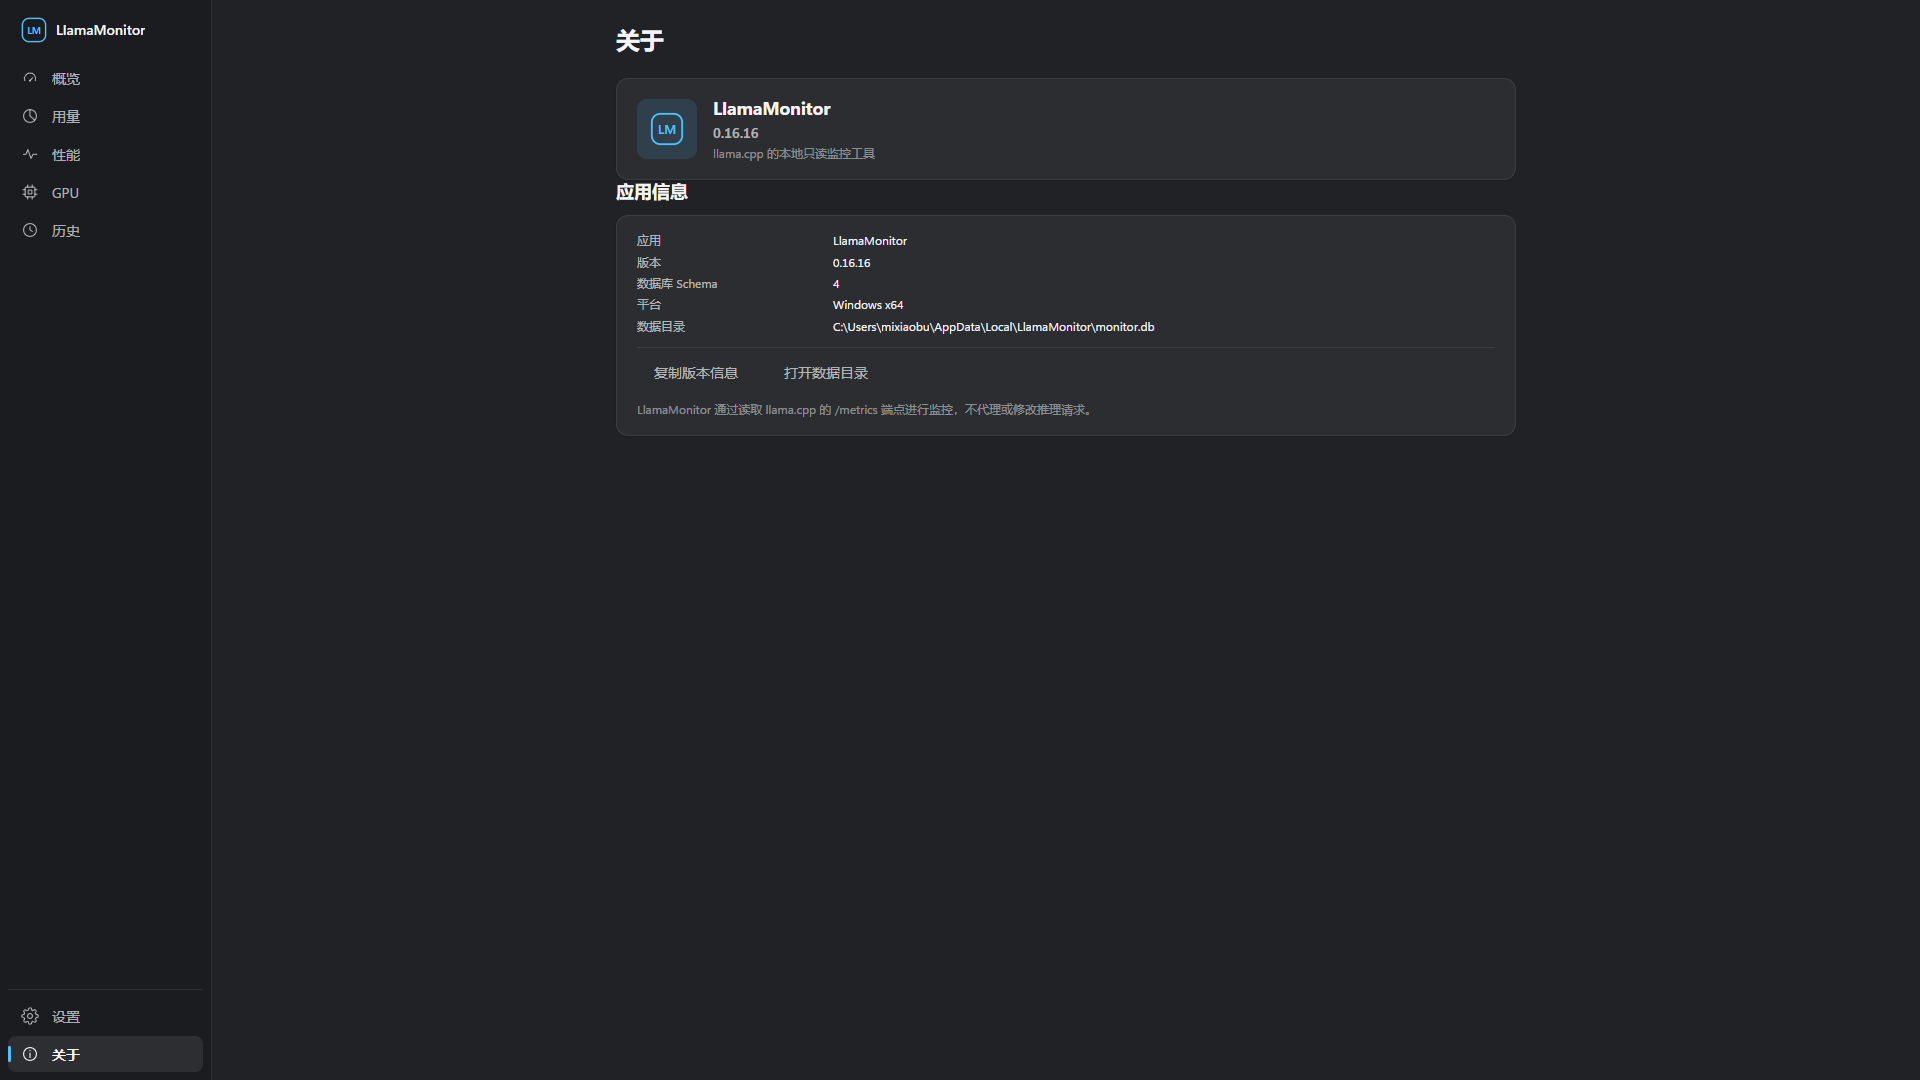
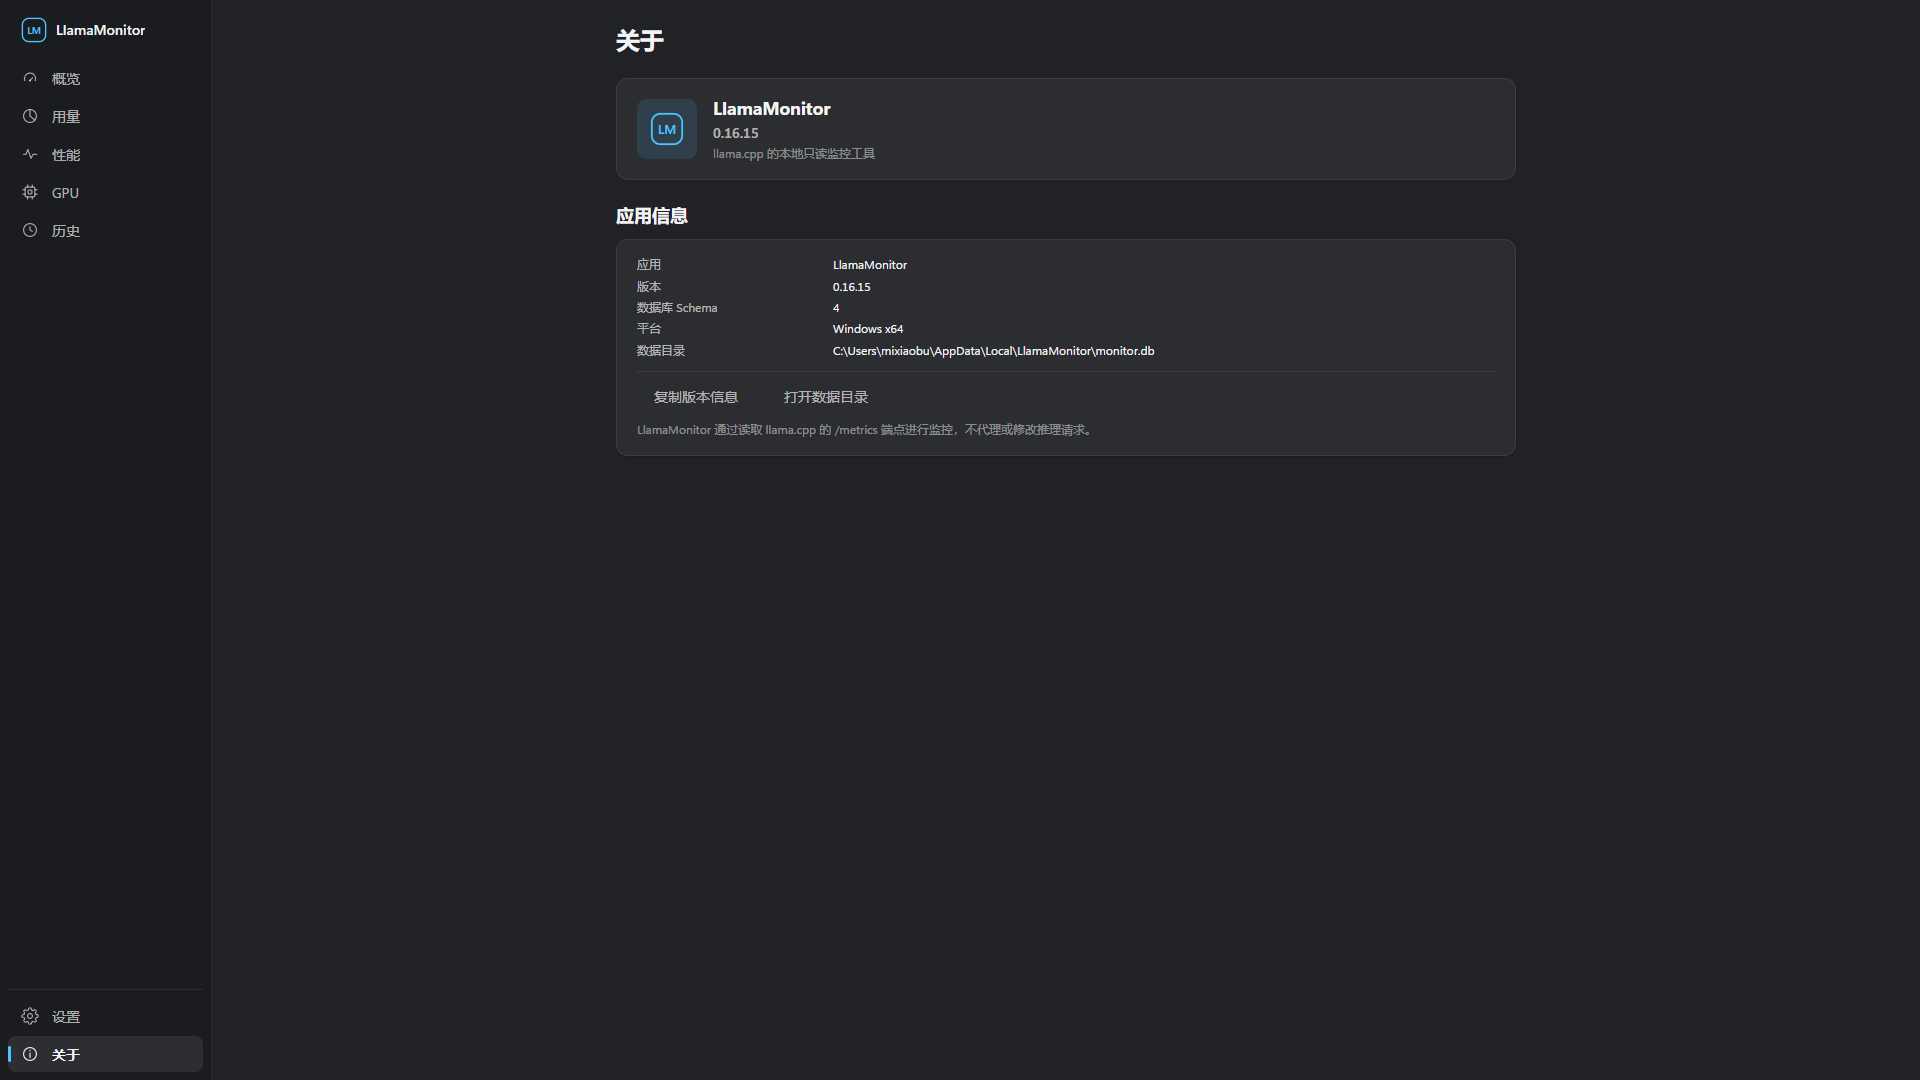
Phase 16D 追加: 间距与细节精细审计修复 (0.16.17)
CDP 实测发现 3 处 0px 间距 bug（.section:last-child{margin-bottom:0}
吞掉了紧随其前的游离元素与 section 的间距）：
- 概览：服务器状态卡 / token-loss 条 与 后续 section 贴死（0px）
- 性能：实时指标条 与 Token 吞吐 section 贴死（0px）
- 关于：品牌卡 与 应用信息 section 贴死（0px）

修复：.status-strip / .metric-strip / .about-hero-card 自身带
--section-gap(24px) 下边距。审计后 7 页所有相邻元素间距统一 24px。

细节打磨：
- 设置页控件宽度落地规范：URL 380 / 路径 400 / 数字 110 / select 180 /
  短文本 160，≤1200px 收敛（300/320），≤900px 全宽
- 设置页底部操作栏上间距对齐分区节奏（24px）
- 修复 About 说明文字与 card-footer 双分隔线（note 紧随 footer 时不再画线）
- 全部截图重拍（docs/screenshots-0.16.16/）

验证：validate OK · 418 测试绿 · Console 干净 · 宽度实测全部符合规范

Changed region(s): [[0.3125, 0.1528, 0.5938, 0.4278]]

diff --git a/static/css/pages.css b/static/css/pages.css
@@ -205,7 +205,7 @@
   justify-content: space-between;
   align-items: center;
   gap: var(--spacing-md);
-  margin-top: var(--spacing-lg);
+  margin-top: var(--section-gap); /* 16D：与分区节奏一致 */
   padding: var(--spacing-md) var(--spacing-lg);
   background: var(--bg-card);
   border: 1px solid var(--border-subtle);
@@ -249,13 +249,15 @@
    ============================================================ */
 
 /* 服务器状态条（Phase 16D §18.2：作为独立卡片，与 card 同构；
-   表面/边框/圆角来自 .card，此处只管 flex 布局） */
+   表面/边框/圆角来自 .card，此处只管 flex 布局；
+   16D 间距审计：自身带分区级下边距，避免与后续 section 贴死（0px 间隙 bug） */
 .status-strip {
   display: flex;
   align-items: center;
   justify-content: space-between;
   gap: var(--spacing-md);
   flex-wrap: wrap;
+  margin-bottom: var(--section-gap);
 }
 .status-strip .ss-left {
   display: flex;
@@ -422,12 +424,14 @@
   margin-top: 0;
 }
 
-/* ---------- 即时指标条（§20.2：一行 5 项，表面来自 .card） ---------- */
+/* ---------- 即时指标条（§20.2：一行 5 项，表面来自 .card；
+   16D 间距审计：自身带分区级下边距，与后续 section 保持 24px） ---------- */
 .metric-strip {
   display: grid;
   grid-template-columns: repeat(5, minmax(0, 1fr));
   gap: var(--spacing-lg);
   padding: var(--spacing-lg) var(--spacing-xl);
+  margin-bottom: var(--section-gap);
 }
 .metric-strip .ms-item {
   min-width: 0;
@@ -902,6 +906,10 @@ a.link:hover .arr { transform: translateX(2px); }
   font-size: var(--font-size-caption);
   line-height: 1.6;
 }
+/* 16D 间距审计：note 位于 .card-footer（已有顶部分隔线）下方时，不再重复画线 */
+.card-footer + .about-note {
+  margin-top: var(--spacing-sm);
+}
 
 /* ============================================================
    Phase 16D — 统一设计语言落地组件
@@ -964,7 +972,11 @@ a.link:hover .arr { transform: translateX(2px); }
   .dq-summary .stat-grid { grid-template-columns: 1fr; }
 }
 
-/* About 品牌卡（§27.1：Logo + 名称 + 版本 + 副标题，独立卡片） */
+/* About 品牌卡（§27.1：Logo + 名称 + 版本 + 副标题，独立卡片；
+   16D 间距审计：自身带分区级下边距，与后续 section 保持 24px） */
+.about-hero-card {
+  margin-bottom: var(--section-gap);
+}
 .about-hero-card .about-hero {
   display: flex;
   align-items: center;

diff --git a/static/css/components.css b/static/css/components.css
@@ -251,15 +251,22 @@
   min-width: 0;
 }
 
-/* 输入框宽度工具类（避免 HTML 内联 style，保持 4px 栅格）。
-   显式宽度类优先于下方 .setting-row 的 180px 默认宽度。 */
-.input.w-s { width: 100px; }
-.input.w-m { width: 160px; }
-.input.w-l { width: 240px; }
-.input.w-xl { width: 320px; }
+/* 输入框宽度工具类（Phase 16D §24 统一宽度规范，避免 HTML 内联 style）。
+   数字/端口 96-120 · select 160-220 · URL/路径 360-420。
+   显式宽度类优先于下方 .setting-row 的默认宽度。 */
+.input.w-s { width: 110px; }   /* 数字类：96-120 */
+.input.w-m { width: 160px; }   /* 短文本 */
+.input.w-l { width: 380px; }   /* URL / 基础地址：360-420 */
+.input.w-xl { width: 400px; }  /* 路径类：360-420 */
+.setting-row .setting-control .select { width: 180px; }  /* select：160-220 */
+@media (max-width: 1200px) {
+  .input.w-l { width: 300px; }
+  .input.w-xl { width: 320px; }
+}
 @media (max-width: 900px) {
   .input.w-l,
   .input.w-xl { width: 100%; }
+  .setting-row .setting-control .select { width: 100%; }
 }
 .input-label {
   font-size: var(--font-size-caption);

diff --git a/version.py b/version.py
@@ -14,5 +14,5 @@ Windows PE FileVersion 由构建脚本统一转换为 x.y.z.0（如 1.0.0 -> 1.0
 不手工维护第二份版本。
 """
 
-__version__ = "0.16.16"
+__version__ = "0.16.17"
 APP_NAME = "LlamaMonitor"

diff --git a/docs/DESIGN_SYSTEM_0.16.16.md b/docs/DESIGN_SYSTEM_0.16.16.md
@@ -1,4 +1,12 @@
-# LlamaMonitor 0.16.16 — Phase 16D 统一 UI 交付说明
+# LlamaMonitor 0.16.17 — Phase 16D 统一 UI 交付说明
+
+> **0.16.17 间距与细节审计（本轮追加）**：CDP 实测发现概览/性能/关于三页存在 0px 间距
+> （状态卡/指标条/品牌卡 与紧随其后的 section 贴死，根因是 `.section:last-child{margin-bottom:0}`
+> 吞掉了游离元素与 section 的间距）。修复：这些游离元素自身带 `--section-gap`(24px) 下边距。
+> 审计后 7 页所有相邻元素间距统一 24px。同时落地设置页控件宽度规范
+> （URL 380 / 路径 400 / 数字 110 / select 180 / 短文本 160，≤1200px 收敛，≤900px 全宽）、
+> 设置页底部操作栏间距对齐分区节奏、修复 About 说明与 card-footer 双分隔线。
+> 重新截图于 `docs/screenshots-0.16.16/`。
 
 本版本实现 Phase 16D「最终统一 UI 打磨 + 布局/视觉/组件系统统一 + 页面结构清理 + 桌面 UX 就绪」。
 技术栈不变（HTML/CSS/vanilla JS/ECharts/PyWebView/FastAPI），信息架构不变（概览/用量/性能/GPU/历史/设置/关于），
